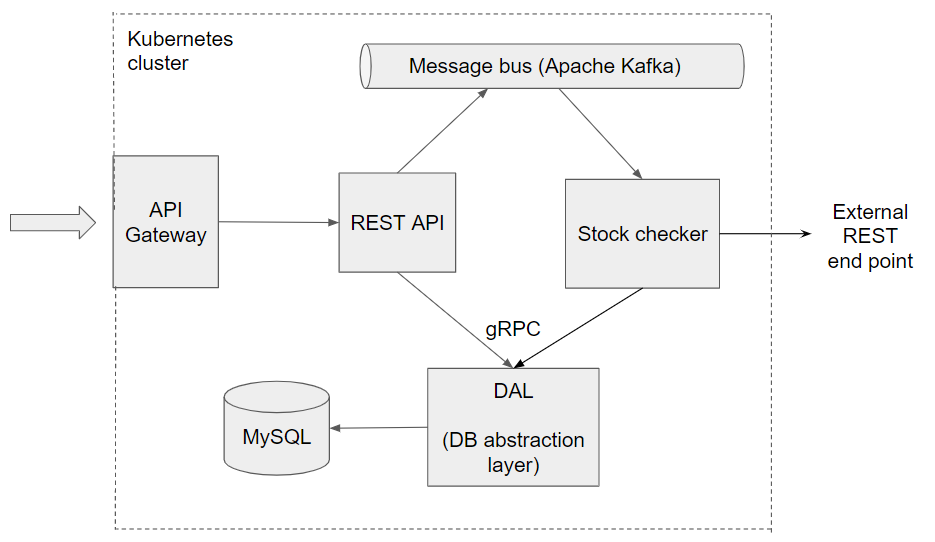
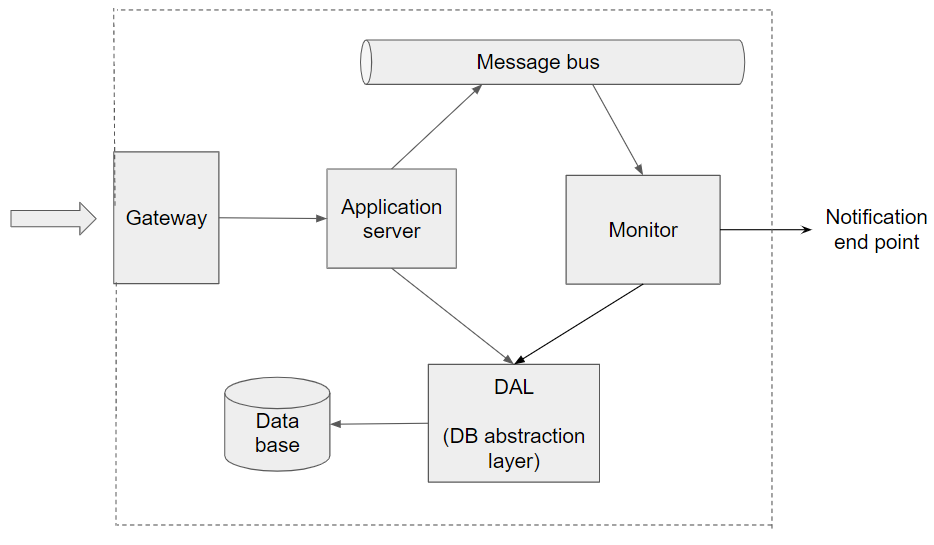
Updating doc (#73)

diff --git a/README.md b/README.md
@@ -1,15 +1,80 @@
 [![Build Status](https://travis-ci.org/alb3rtobr/tfm_swcraftsmanship.svg?branch=master)](https://travis-ci.org/alb3rtobr/tfm_swcraftsmanship)
 
-# tfm_swcraftsmanship
+# Microservice app development with Spring Cloud Kubernetes
 
-Our awesome TFM
+1. [Introduction](#introduction)
+	1. [Project description](#project-description)
+	2. [Goals](#goals)
+	3. [Motivation](#motivation)
+2. [Project development](#project-development)
+	1. [Methodology](#methodology)
+	2. [Analysis](#analysis)
+	3. [Design](#design)
+	4. [Implementation & tests](#implementation-and-tests)
+		1. Installation
+		2. Docker image preparation
+		3. Helm dependencies
+		4. Deployment
+		5. Delete the deployment
+3. Conclusions and future work
+4. References
 
-## Architecture
+
+## Introduction
+
+### Project description
+The current project aims to explore the development of a Kubernetes native application using Spring Cloud framework and study different alternatives for the problems identified.
+We have implemented a simple application with the following requirements:
+* REST API that expose the allowed operations
+* Data Abstraction Layer service to access the data base via gRPC.
+* Monitoring component who reacts to the operations performed in the data base.
+
+
+### Goals
+
+
+### Motivation
+
+
+## Project development
+
+### Methodology
+
+Trying to take advantage of all the learning opportunities during the development of this project, we decided to use two tools that are widely used in software development, but we are not familiar with: Slack & GitHub.
+
+Before this project, we were used to use GitHub as source coude repository, but we wanted to go one step beyond and use it also as project management tool, using features as the issue tracker and the usage of pull requests for code review. This allowed us to get experience on its usage and get familiar with the common GitHub way of working.
+
+Slack (["Searchable Log of All Conversation and Knowledge"][1]) is a team collaboration tool, useful to coordinate distributed teams. We create our own Slack workspace, and it was our main communication mechanism during the project. In our workspace, we create a separate channel to talk about each component, so all the discussions, questions, issues... were properly organized.
+We also took advantage of the different Slack plugins: we integrated both our GitHub repository and our continuous integration mechanism, so every activity generated in any of both platform was reported in its associated channel in Slack. This has proven to be very useful in a team which members are not working in the same physical place and not even at the same hours.
+
+![slack and travis integration](./images/travis-in-slack.png)
+
+*Travis CI reports in Slack.*
+
+![slack and github integration](./images/github-in-slack.png "Slack and Github integration")
+
+*Github activity reports in Slack.*
+
+We defined a base architecture to be evolved. We added the required tasks as GitHub issues, and organized them in milestones.
+When an issue was assigned, the developer worked on a separate branch, and once he was done, a pull request was opened in order to review the code before merging it to master branch.
+
+### Analysis
+
+This is the base architecture we decided to develop:
+
 ![architecture draft](./images/architecture-draft.png "architecture draft")
 
-## Installation
+### Design
 
-### Docker image preparations
+After prioritize which technologies we were interested on:
+
+![architecture draft extended](./images/architecture-draft-extended.png "architecture draft")
+
+### Implementation and tests
+
+#### Installation
+
+##### Docker image preparation
 
 `build.sh` script can be used to compile all the services and generate the Docker images.
 When executed, the following steps are performed:
@@ -18,7 +83,7 @@ When executed, the following steps are performed:
 * Build `stockchecker` project & generate Docker image
 * Build `dal` project & generate Docker image
 
-### Helm dependencies
+##### Helm dependencies
 
 The application chart has dependendecies in external Chart files for Kafka and Zookeeper services. It is needed, prior the application deployment, to update the helm dependencies in order to download the charts for these services.
 
@@ -47,7 +112,7 @@ Deleting outdated charts
 
 
 
-### Deployment
+##### Deployment
 
 ```bash
 $ cd $GIT_REPO/charts
@@ -94,8 +159,22 @@ statefulset.apps/tfm-almacar-zookeeper   3/3     23h
 
 ```
 
-### Delete the deployment
+##### Delete the deployment
 
 ```bash
 $ helm del --purge tfm-almacar
 ```
+
+## References
+
+Reference sites:
+* [gRPC](https://grpc.io/)
+
+Articles:
+* [1]: https://www.businessinsider.com/where-did-slack-get-its-name-2016-9
+
+Spring Kafka related links:
+* [Spring Kafka - Spring Boot example](https://codenotfound.com/spring-kafka-boot-example.html)
+* [Spring Kafka Consumer-Producer example](https://codenotfound.com/spring-kafka-consumer-producer-example.html)
+* [Spring Kafka - JSON Serializer Deserializer Example](https://codenotfound.com/spring-kafka-json-serializer-deserializer-example.html)
+* [Spring Kafka Embedded Unit Test Example](https://codenotfound.com/spring-kafka-embedded-unit-test-example.html)
